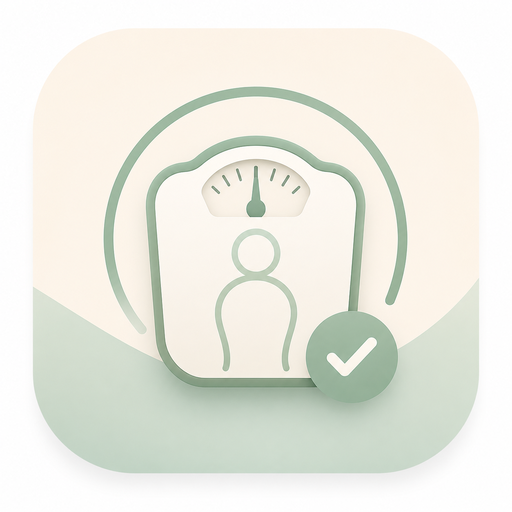
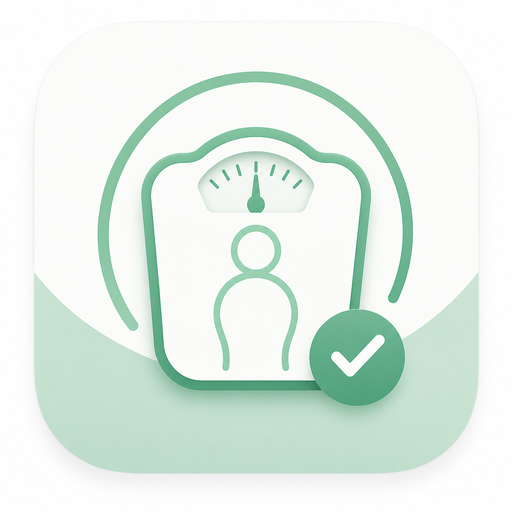
Add files via upload

diff --git a/peso/index.html b/peso/index.html
@@ -6,8 +6,8 @@
 <title>Peso — Controlo diário</title>
 <link rel="icon" type="image/png" href="pesoicon192.png">
 <link rel="apple-touch-icon" href="pesoicon192.png">
[1 lines of base64/hex data omitted]
-<meta name="theme-color" content="#FBF3E7">
[1 lines of base64/hex data omitted]
+<meta name="theme-color" content="#FAFBF8">
 <meta name="mobile-web-app-capable" content="yes">
 <meta name="apple-mobile-web-app-capable" content="yes">
 <meta name="apple-mobile-web-app-status-bar-style" content="default">
@@ -17,22 +17,23 @@
 <link href="https://fonts.googleapis.com/css2?family=DM+Mono:wght@400;500&family=Inter:wght@400;500;600;700;800&display=swap" rel="stylesheet">
 <style>
   :root{
-    --bg:#FBF3E7;
+    --bg:#FAFBF8;
     --panel:#FFFFFF;
-    --panel2:#F1E6D2;
-    --line:#E5D8C2;
-    --text:#3E3A32;
-    --text-dim:#948A78;
-    --lime:#7E9C83;
+    --panel2:#EEF4F0;
+    --line:#DCE7E0;
+    --text:#556066;
+    --text-dim:#8B979C;
+    --lime:#4F8D74;
     --lime-ink:#FFFFFF;
-    --lime-glow:rgba(126,156,131,.22);
-    --teal:#6F9C93;
-    --amber:#CE9A45;
-    --amber-tint:rgba(206,154,69,.15);
-    --danger:#C1604A;
-    --danger-tint:rgba(193,96,74,.13);
-    --ok:#6E9573;
-    --ok-tint:rgba(110,149,115,.15);
+    --lime-glow:rgba(79,141,116,.22);
+    --teal:#6FAF8F;
+    --mint:#A8D5BA;
+    --amber:#D69E4D;
+    --amber-tint:rgba(214,158,77,.15);
+    --danger:#D97A66;
+    --danger-tint:rgba(217,122,102,.14);
+    --ok:#4F8D74;
+    --ok-tint:rgba(79,141,116,.14);
     --font-mono:'DM Mono', monospace;
     --font-sans:'Inter', -apple-system, BlinkMacSystemFont, sans-serif;
   }
@@ -166,7 +167,7 @@
   .progress-track{background:var(--panel2);border-radius:999px;height:15px;overflow:hidden;border:1px solid var(--line);}
   .progress-fill{
     height:100%;width:0%;border-radius:999px;
-    background:linear-gradient(90deg,#C97B62,var(--amber),var(--teal),var(--lime));
+    background:linear-gradient(90deg,var(--mint),var(--teal),var(--lime));
     background-size:300% 100%;
     transition:width .6s cubic-bezier(.4,0,.2,1);
     animation:progressFlow 6s ease infinite;
@@ -267,7 +268,7 @@
   #undoToastBtn{background:none;border:none;color:var(--lime);font-weight:800;font-size:0.82rem;padding:4px 6px;min-height:auto;}
 
   .lcd-record{font-size:0.68rem;color:var(--amber);margin-top:3px;font-weight:800;}
-  .min-tag{font-size:0.58rem;font-weight:800;color:#3E3A32;background:var(--amber);padding:1px 5px;border-radius:5px;letter-spacing:.03em;}
+  .min-tag{font-size:0.58rem;font-weight:800;color:#556066;background:var(--amber);padding:1px 5px;border-radius:5px;letter-spacing:.03em;}
 </style>
 </head>
 <body>
@@ -421,7 +422,7 @@
 /* ============================================================
    CONFIGURAÇÃO
    ============================================================ */
-const APP_VERSION = 'v1.6.0';
+const APP_VERSION = 'v1.7.0';
 const CLIENT_ID = '108256538530-fgunbb52s7f3s9aurfpjtaf01v8fjbph.apps.googleusercontent.com';
 const SPREADSHEET_ID = '1UzEXtl7w6jMsk-c7Pkt3kq97AXL6XIiwTrjOYUaYFLs';
 const SHEET_REGISTOS = 'Registos';
@@ -1166,15 +1167,64 @@ function exportarXLSX(){
     setStatus('Não há registos para exportar.', true);
     return;
   }
-  const linhas = registos.map(r => ({
+  const wb = XLSX.utils.book_new();
+
+  // ---- Folha Registos ----
+  const linhasRegistos = registos.map(r => ({
     Data: fmtData(r.date),
     'Peso (kg)': r.peso,
     Nota: r.nota
   }));
-  const ws = XLSX.utils.json_to_sheet(linhas);
-  ws['!cols'] = [{ wch: 18 }, { wch: 10 }, { wch: 30 }];
-  const wb = XLSX.utils.book_new();
-  XLSX.utils.book_append_sheet(wb, ws, 'Registos');
+  const wsRegistos = XLSX.utils.json_to_sheet(linhasRegistos);
+  wsRegistos['!cols'] = [{ wch: 18 }, { wch: 10 }, { wch: 30 }];
+  XLSX.utils.book_append_sheet(wb, wsRegistos, 'Registos');
+
+  // ---- Folha Config ----
+  const atividadeLabels = { 1.2: 'Pouco ativo', 1.45: 'Moderadamente ativo', 1.7: 'Muito ativo' };
+  const linhasConfig = [
+    { Campo: 'Altura (cm)', Valor: config.altura ?? '—' },
+    { Campo: 'Data de nascimento', Valor: config.nascimento ? isoDateOnly(config.nascimento) : '—' },
+    { Campo: 'Sexo', Valor: config.sexo || '—' },
+    { Campo: 'Peso alvo (kg)', Valor: config.pesoAlvo ?? '—' },
+    { Campo: 'Nível de atividade', Valor: atividadeLabels[config.atividade] || config.atividade || '—' },
+  ];
+  const wsConfig = XLSX.utils.json_to_sheet(linhasConfig);
+  wsConfig['!cols'] = [{ wch: 22 }, { wch: 22 }];
+  XLSX.utils.book_append_sheet(wb, wsConfig, 'Config');
+
+  // ---- Folha Resumo (estado calculado no momento da exportação) ----
+  const pesoAtual = registos[registos.length - 1].peso;
+  const pesoInicial = registos[0].peso;
+  const totalPerdido = pesoInicial - pesoAtual;
+  const desdeInicio = mediaPerdaPeriodo(999999);
+  const mediaSemanal = desdeInicio !== null ? desdeInicio * 7 : null;
+  const pesos = registos.map(r => r.peso);
+  const pctObjetivo = calcProgressPct();
+  const imc = config.altura ? calcIMC(pesoAtual, config.altura) : null;
+  const imcClasse = imc !== null ? classificaIMC(imc).texto : '—';
+  const idade = config.nascimento ? idadeAnos(config.nascimento) : null;
+  const tmb = (config.altura && idade !== null && config.sexo) ? calcTMB(pesoAtual, config.altura, idade, config.sexo) : null;
+  const tdee = tmb !== null ? Math.round(tmb * (config.atividade || 1.2)) : null;
+
+  const linhasResumo = [
+    { Métrica: 'Data de exportação', Valor: fmtData(new Date()) },
+    { Métrica: 'Peso inicial (kg)', Valor: pesoInicial.toFixed(1) },
+    { Métrica: 'Peso atual (kg)', Valor: pesoAtual.toFixed(1) },
+    { Métrica: 'Total perdido (kg)', Valor: totalPerdido.toFixed(1) },
+    { Métrica: 'Mínimo registado (kg)', Valor: Math.min(...pesos).toFixed(1) },
+    { Métrica: 'Máximo registado (kg)', Valor: Math.max(...pesos).toFixed(1) },
+    { Métrica: 'Ritmo médio (kg/dia)', Valor: desdeInicio !== null ? desdeInicio.toFixed(3) : '—' },
+    { Métrica: 'Ritmo médio (kg/semana)', Valor: mediaSemanal !== null ? mediaSemanal.toFixed(2) : '—' },
+    { Métrica: 'Progresso até ao objetivo (%)', Valor: pctObjetivo !== null ? pctObjetivo.toFixed(0) : '—' },
+    { Métrica: 'IMC', Valor: imc !== null ? imc.toFixed(1) : '—' },
+    { Métrica: 'Classificação IMC', Valor: imcClasse },
+    { Métrica: 'Gasto diário estimado (kcal)', Valor: tdee !== null ? tdee : '—' },
+    { Métrica: 'Total de registos', Valor: registos.length },
+  ];
+  const wsResumo = XLSX.utils.json_to_sheet(linhasResumo);
+  wsResumo['!cols'] = [{ wch: 30 }, { wch: 20 }];
+  XLSX.utils.book_append_sheet(wb, wsResumo, 'Resumo');
+
   const nomeFicheiro = `peso-export-${isoDateOnly(new Date())}.xlsx`;
   XLSX.writeFile(wb, nomeFicheiro);
   setStatus('Ficheiro exportado: ' + nomeFicheiro);
@@ -1243,13 +1293,13 @@ function renderChart(entrando = false){
   const canvasCtx = ctx.getContext('2d');
   const alturaCanvas = ctx.clientHeight || 280;
   const gradienteArea = canvasCtx.createLinearGradient(0, 0, 0, alturaCanvas);
-  gradienteArea.addColorStop(0, 'rgba(126,156,131,0.45)');
-  gradienteArea.addColorStop(0.6, 'rgba(126,156,131,0.12)');
-  gradienteArea.addColorStop(1, 'rgba(126,156,131,0.0)');
+  gradienteArea.addColorStop(0, 'rgba(79,141,116,0.40)');
+  gradienteArea.addColorStop(0.6, 'rgba(79,141,116,0.10)');
+  gradienteArea.addColorStop(1, 'rgba(79,141,116,0.0)');
 
   const gradienteLinha = canvasCtx.createLinearGradient(0, 0, ctx.clientWidth || 300, 0);
-  gradienteLinha.addColorStop(0, '#B4703F');
-  gradienteLinha.addColorStop(1, '#7E9C83');
+  gradienteLinha.addColorStop(0, '#6FAF8F');
+  gradienteLinha.addColorStop(1, '#4F8D74');
 
   // ---- Já existe gráfico e não é uma entrada na aba: só atualizar dados, com transição suave ----
   if (weightChart && !entrando){
@@ -1288,14 +1338,14 @@ function renderChart(entrando = false){
           borderWidth: 2.5,
           tension: 0.25,
           pointRadius: 2,
-          pointBackgroundColor: '#7E9C83',
+          pointBackgroundColor: '#4F8D74',
           fill: true,
           order: 2,
         },
         {
           label: 'Média 7 dias',
           data: mediasFiltradas,
-          borderColor: '#B4703F',
+          borderColor: '#D69E4D',
           backgroundColor: 'transparent',
           borderWidth: 2,
           borderDash: [4, 3],
@@ -1331,8 +1381,8 @@ function renderChart(entrando = false){
       },
       plugins: { legend: { display: false } },
       scales: {
-        x: { ticks: { maxTicksLimit: 6, font: { size: 9 }, color: '#948A78' }, grid: { color: '#E5D8C2' } },
-        y: { ticks: { font: { size: 9 }, color: '#948A78' }, grid: { color: '#E5D8C2' } }
+        x: { ticks: { maxTicksLimit: 6, font: { size: 9 }, color: '#8B979C' }, grid: { color: '#DCE7E0' } },
+        y: { ticks: { font: { size: 9 }, color: '#8B979C' }, grid: { color: '#DCE7E0' } }
       }
     }
   });